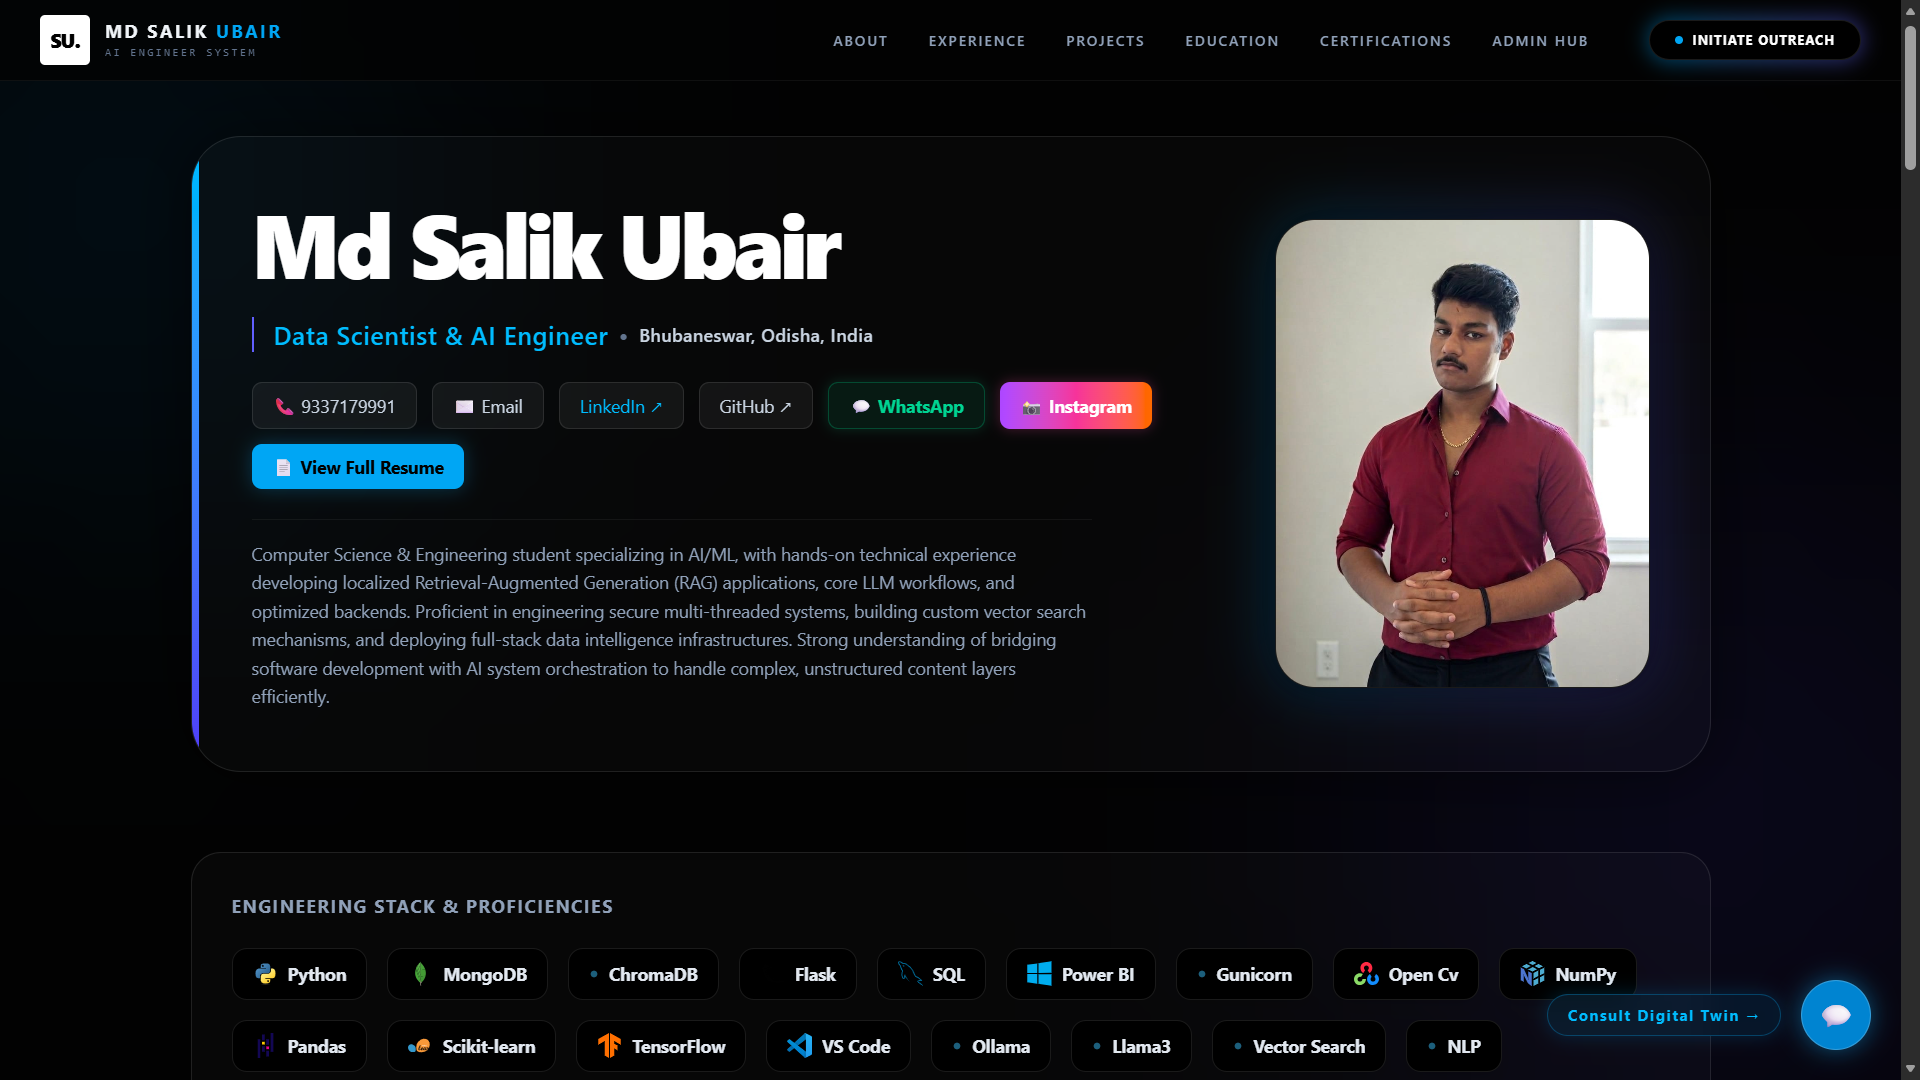
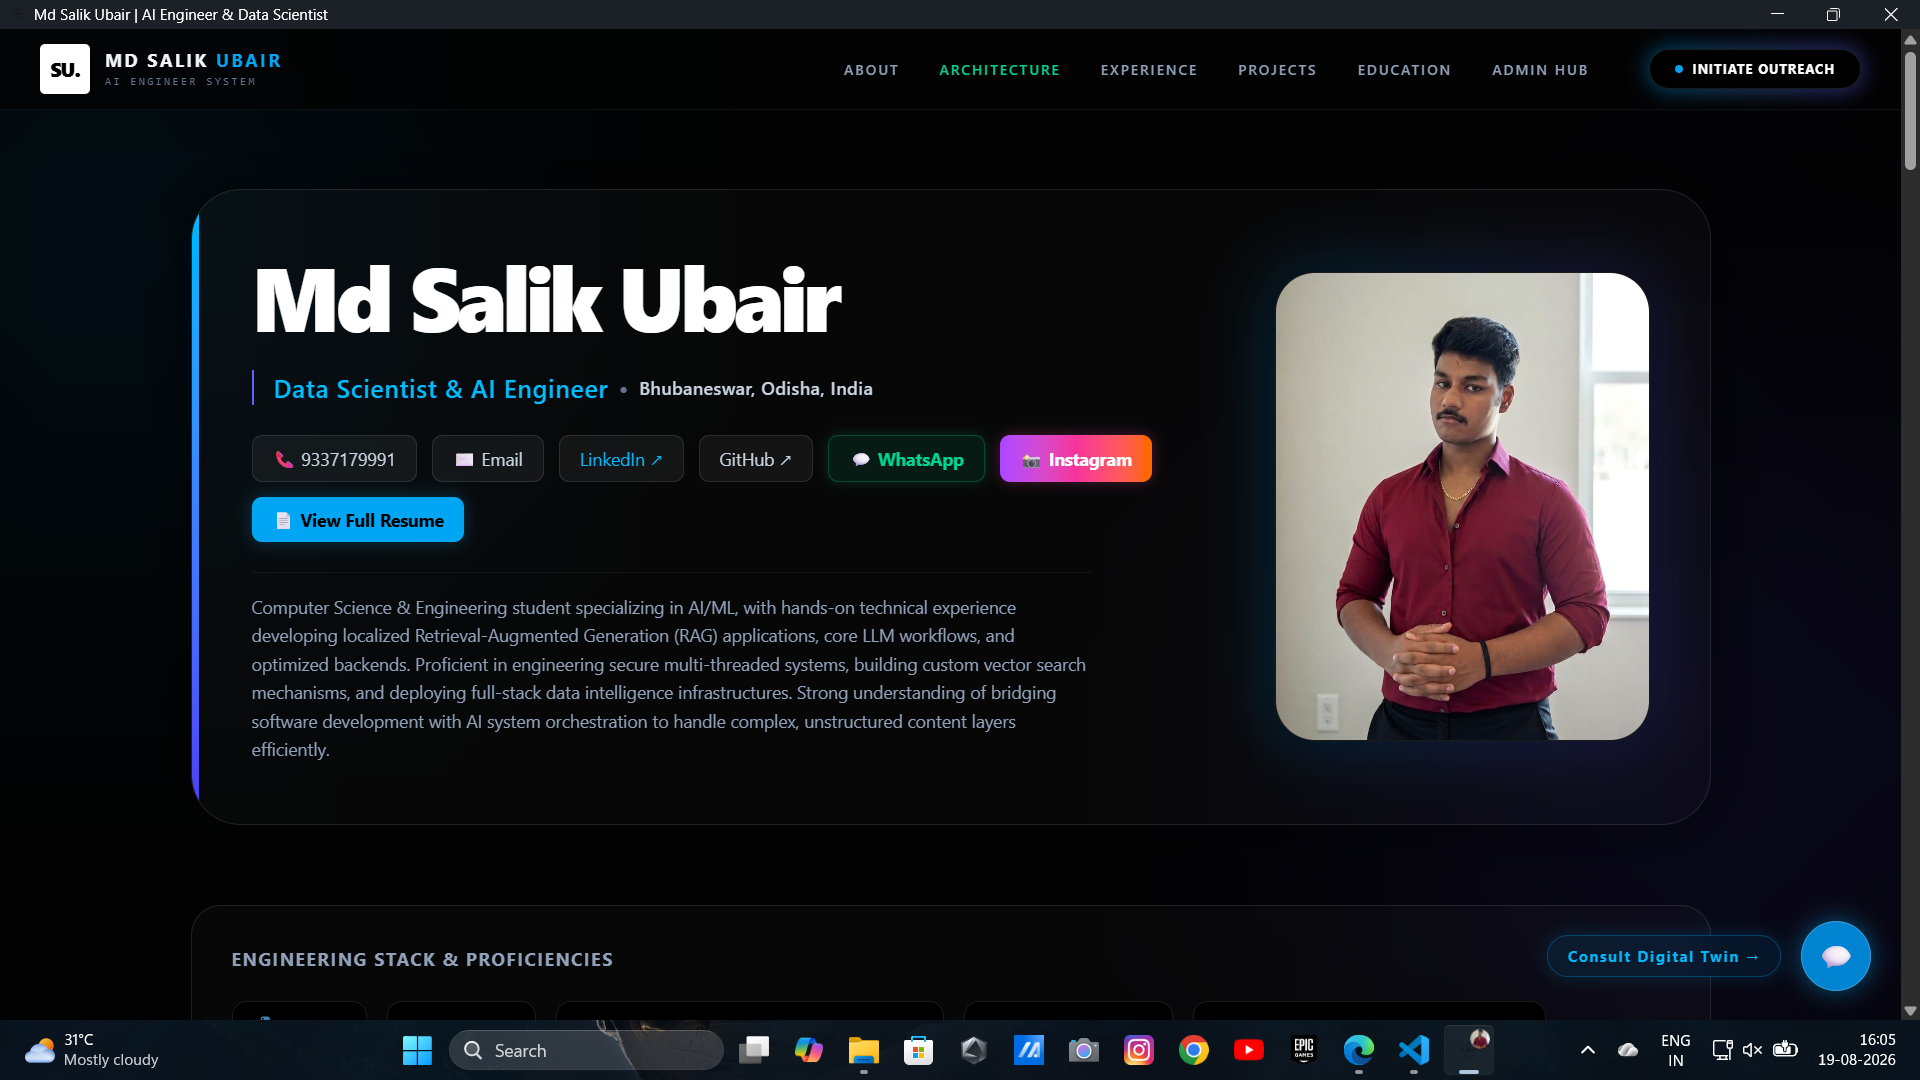
docs: add interactive architecture section and update LLM specs in README

diff --git a/frontend/src/App.jsx b/frontend/src/App.jsx
@@ -42,6 +42,7 @@ function App() {
   // Modal States
   const [viewingNode, setViewingNode] = useState(null); 
   const [isContactModalOpen, setIsContactModalOpen] = useState(false);
+  const [isWhitepaperOpen, setIsWhitepaperOpen] = useState(false); // 🚀 NEW: Architecture PPT Modal
   
   // Custom Toast Notification System
   const [toast, setToast] = useState(null);
@@ -160,16 +161,19 @@ function App() {
         } else if (isChatOpen) {
             e.preventDefault();
             setIsChatOpen(false); 
+        } else if (isWhitepaperOpen) {
+            e.preventDefault();
+            setIsWhitepaperOpen(false);
         }
     };
     
-    if (viewingNode || isChatOpen || isContactModalOpen) {
+    if (viewingNode || isChatOpen || isContactModalOpen || isWhitepaperOpen) {
         window.history.pushState(null, "", window.location.href);
     }
     
     window.addEventListener('popstate', handlePopState);
     return () => window.removeEventListener('popstate', handlePopState);
-  }, [viewingNode, isChatOpen, isContactModalOpen]);
+  }, [viewingNode, isChatOpen, isContactModalOpen, isWhitepaperOpen]);
 
 
   // ---------------------------------------------------------
@@ -589,14 +593,20 @@ function App() {
 
   const navLinks = [
     { label: 'About', view: 'portfolio', section: 'top' },
+    { label: 'Architecture', view: 'portfolio', section: 'modal-whitepaper' }, // 🚀 NEW: Architecture Button
     { label: 'Experience', view: 'portfolio', section: 'section-experiences' },
     { label: 'Projects', view: 'portfolio', section: 'section-projects' },
     { label: 'Education', view: 'portfolio', section: 'section-education' },
-    { label: 'Certifications', view: 'portfolio', section: 'section-certifications_and_achievements' },
     { label: 'Admin Hub', view: 'admin-hub', section: null },
   ];
 
   const handleNavClick = (view, sectionId) => {
+      if (sectionId === 'modal-whitepaper') {
+          setIsWhitepaperOpen(true);
+          setIsMobileMenuOpen(false);
+          return;
+      }
+      
       setCurrentView(view);
       setIsMobileMenuOpen(false);
       if(sectionId && view === 'portfolio') {
@@ -747,11 +757,10 @@ function App() {
             <div className="hidden lg:flex items-center gap-8">
                 {navLinks.map((link, idx) => (
                     <button 
-                        key={idx}
-                        onClick={() => handleNavClick(link.view, link.section)}
-                        className="text-[10px] md:text-[11px] font-semibold uppercase tracking-[0.15em] text-slate-400 hover:text-sky-400 transition-colors"
-                    >
-                        {link.label}
+                    key={idx}
+                    onClick={() => handleNavClick(link.view, link.section)}
+                    className="text-[10px] md:text-[11px] font-semibold uppercase tracking-[0.15em] text-slate-400 hover:text-sky-400 transition-colors">
+                    {link.label}
                     </button>
                 ))}
                 {/* TOP NAVBAR PRIORITY CTA */}
@@ -784,13 +793,93 @@ function App() {
               <div className="fixed top-[64px] left-0 w-full bg-[#050505]/95 backdrop-blur-xl border-b border-white/10 z-40 lg:hidden flex flex-col p-4 space-y-2 shadow-2xl animate-fadeIn">
                   {navLinks.map((link, idx) => (
                       <button 
-                          key={idx}
-                          onClick={() => handleNavClick(link.view, link.section)}
-                          className="text-xs font-bold uppercase tracking-[0.2em] text-slate-300 hover:text-white hover:bg-white/5 w-full text-left py-4 px-4 rounded-xl transition-all border border-transparent hover:border-white/10"
-                      >
-                          {link.label}
-                      </button>
+    key={idx}
+    onClick={() => handleNavClick(link.view, link.section)}
+    className="text-xs font-bold uppercase tracking-[0.2em] text-slate-300 hover:text-white hover:bg-white/5 w-full text-left py-4 px-4 rounded-xl transition-all border border-transparent hover:border-white/10"
+>
+    {link.label}
+</button>
                   ))}
+              </div>
+          )}
+
+          {/* 🚀 NEW: SYSTEM ARCHITECTURE WHITEPAPER MODAL 🚀 */}
+          {isWhitepaperOpen && (
+              <div className="fixed inset-0 z-[300] flex items-center justify-center p-4 bg-black/95 backdrop-blur-xl animate-fadeIn" onClick={() => setIsWhitepaperOpen(false)}>
+                  <div className="bg-[#050505] border border-emerald-500/20 w-full max-w-5xl rounded-3xl shadow-[0_0_100px_rgba(16,185,129,0.15)] relative overflow-hidden flex flex-col max-h-[90vh]" onClick={e => e.stopPropagation()}>
+                      <div className="absolute top-0 left-0 w-full h-1 bg-gradient-to-r from-emerald-500 to-sky-500"></div>
+                      <button onClick={() => setIsWhitepaperOpen(false)} className="absolute top-5 right-5 text-slate-400 hover:text-white bg-white/5 w-10 h-10 rounded-full flex items-center justify-center transition-colors z-20 hover:bg-red-500">✕</button>
+                      
+                      <div className="p-8 md:p-10 border-b border-white/5 bg-[#0a0a0a] flex-shrink-0">
+                          <div className="flex items-center gap-3 mb-2">
+                              <span className="w-2 h-2 bg-emerald-500 rounded-full animate-pulse"></span>
+                              <span className="text-[10px] font-mono text-emerald-400 tracking-widest uppercase">System Design Overview</span>
+                          </div>
+                          <h3 className="text-2xl md:text-4xl font-extrabold text-white tracking-tight">The "Digital Twin" Architecture</h3>
+                          <p className="text-xs md:text-sm text-slate-400 mt-3 leading-relaxed max-w-3xl">
+                              This portfolio is not a static webpage. It is a full-stack, production-grade <strong>Retrieval-Augmented Generation (RAG)</strong> application designed to showcase enterprise-level AI engineering, inference optimization, and system resilience.
+                          </p>
+                      </div>
+
+                      <div className="p-8 md:p-10 overflow-y-auto space-y-12" style={{ scrollbarWidth: 'none', msOverflowStyle: 'none' }}>
+                          
+                          {/* Section 1: The RAG Pipeline */}
+                          <div className="space-y-6">
+                              <h4 className="text-lg font-bold text-white border-b border-white/10 pb-2">1. The Neural Pipeline (Vector Search & Generation)</h4>
+                              <div className="grid grid-cols-1 md:grid-cols-3 gap-4">
+                                  <div className="bg-[#111] border border-white/5 p-5 rounded-2xl">
+                                      <div className="text-sky-400 mb-2">① Vectorization</div>
+                                      <h5 className="font-bold text-sm text-white mb-2">Google Gemini 768-D</h5>
+                                      <p className="text-[11px] text-slate-400 leading-relaxed">Incoming user queries and backend JSON data are embedded into 768-dimensional space using Google's <code>text-embedding-004</code> model for high-accuracy semantic capturing.</p>
+                                  </div>
+                                  <div className="bg-[#111] border border-white/5 p-5 rounded-2xl">
+                                      <div className="text-sky-400 mb-2">② Semantic Retrieval</div>
+                                      <h5 className="font-bold text-sm text-white mb-2">ChromaDB / FAISS</h5>
+                                      <p className="text-[11px] text-slate-400 leading-relaxed">The system performs an L2 (Cosine Distance) similarity search across the local vector database, retrieving the Top-K (K=6) most contextually relevant document chunks.</p>
+                                  </div>
+                                  <div className="bg-[#111] border border-white/5 p-5 rounded-2xl">
+                                      <div className="text-sky-400 mb-2">③ LLM Inference</div>
+                                      <h5 className="font-bold text-sm text-white mb-2">Groq Llama-3.3 70B</h5>
+                                      <p className="text-[11px] text-slate-400 leading-relaxed">The retrieved facts are injected into a strict zero-hallucination prompt. Groq's LPU inference engine processes the 70B parameter model to generate a professional response in under ~850ms.</p>
+                                  </div>
+                              </div>
+                          </div>
+
+                          {/* Section 2: Audio Synthesis */}
+                          <div className="space-y-4">
+                              <h4 className="text-lg font-bold text-white border-b border-white/10 pb-2">2. Multi-Modal Audio Synthesis</h4>
+                              <div className="bg-[#111] border border-white/5 p-6 rounded-2xl flex flex-col md:flex-row gap-6 items-center">
+                                  <div className="flex-1 space-y-3">
+                                      <p className="text-xs text-slate-300 leading-relaxed">
+                                          Text responses are piped through Microsoft's <strong>Edge-TTS</strong> neural voice synthesis engine. The system dynamically strips markdown and code blocks, optimizing the plain text for a natural, 24kHz Indian-English accent stream (<code>en-IN-PrabhatNeural</code>). 
+                                      </p>
+                                      <p className="text-xs text-slate-300 leading-relaxed">
+                                          The frontend synchronizes the incoming audio blob with HTML5 video elements, creating a seamless "Virtual Avatar" presence that reacts to the inference state (Idle, Thinking, Answering).
+                                      </p>
+                                  </div>
+                                  <div className="w-full md:w-1/3 bg-black border border-white/10 rounded-xl p-4 font-mono text-[9px] text-emerald-400 whitespace-pre-wrap">
+                                      {`async def _generate():\n  communicate = edge_tts.Communicate(\n    clean_text,\n    voice="en-IN-PrabhatNeural"\n  )\n  await communicate.save(filepath)`}
+                                  </div>
+                              </div>
+                          </div>
+
+                          {/* Section 3: Engineering Resilience */}
+                          <div className="space-y-4">
+                              <h4 className="text-lg font-bold text-white border-b border-white/10 pb-2">3. Production-Grade Fallbacks & Resilience</h4>
+                              <div className="grid grid-cols-1 md:grid-cols-2 gap-4">
+                                  <div className="bg-amber-500/5 border border-amber-500/20 p-5 rounded-2xl">
+                                      <h5 className="font-bold text-sm text-amber-500 mb-2">Automated LLM Routing</h5>
+                                      <p className="text-[11px] text-slate-400 leading-relaxed">If the primary 120B/70B model encounters a rate limit or API block, LangChain's <code>.with_fallbacks()</code> instantly reroutes the request to a faster 20B/8B model with zero downtime or error flags visible to the user.</p>
+                                  </div>
+                                  <div className="bg-sky-500/5 border border-sky-500/20 p-5 rounded-2xl">
+                                      <h5 className="font-bold text-sm text-sky-500 mb-2">Self-Healing Database</h5>
+                                      <p className="text-[11px] text-slate-400 leading-relaxed">If the backend cloud instance restarts and clears temporary memory, the Python service detects the missing vector directory and automatically rebuilds and re-chunks the entire ChromaDB from the master JSON payload in real-time.</p>
+                                  </div>
+                              </div>
+                          </div>
+
+                      </div>
+                  </div>
               </div>
           )}
 

diff --git a/README.md b/README.md
@@ -26,7 +26,7 @@
   <img src="ReadmeAssets/03_rag_twin.png" alt="Digital Twin Interface" width="90%" />
 </div>
 
-*   **Inference Engine:** Utilizes `Llama-3.3 (70B)` via Groq API for ultra-low latency, intelligent response synthesis.
+*   **Inference Engine:** Utilizes Multi-Tier Groq LLM Engine (gpt-oss-120b with fallback to 20b) for ultra-low latency, intelligent response synthesis.
 *   **Semantic Matrix:** Localized `ChromaDB` vector store powered by Google Generative AI Embeddings (`text-embedding-004`) with `RecursiveCharacterTextSplitter` for crash-proof data ingestion.
 *   **Hidden Context Embedding:** Deep technical documentation (`hidden_readme`) is embedded per database node. The AI autonomously understands complex underlying architectures without cluttering the public UI.
 *   **Synchronized Audio-Visuals:** Integrates `Edge-TTS` for real-time audio streaming. Features a hardware-accelerated video state controller mapping an avatar between idle, thinking, and speaking modes.
@@ -63,6 +63,15 @@
 *   **Matrix Bootloader:** Simulated cyber-terminal pre-fetching sequence masking standard server cold-start latencies.
 *   **Responsive Engine:** Fluid grid-layouts on PC that seamlessly adapt into horizontal snap-scrolling cards on mobile devices for flawless UX.
 *   **Custom Cyber Toasts:** Globally deployed sleek, matrix-styled toast notifications replacing standard browser alerts.
+
+### 5. Interactive System Architecture Whitepaper
+<div align="center">
+  <img src="ReadmeAssets/07_architecture.png" alt="System Architecture Whitepaper" width="90%" />
+</div>
+
+*   **Developer-First Transparency:** A dedicated interactive modal detailing the core engineering pipeline to technical recruiters and AI founders.
+*   **Pipeline Breakdown:** Deep-dive explanations covering Vectorization (Gemini 768-D), Semantic Retrieval (ChromaDB), and Inference Generation.
+*   **Production Resilience:** Showcases edge-case handling like Automated LLM Fallback Routing (Zero Downtime) and Self-Healing Database reconstruction.
 ---
 
 ## ⚙ System Architecture Data Flow
@@ -110,7 +119,7 @@
 - **ChromaDB** (Vector Similarity Search)
 - **MongoDB** (Persistent Storage & Structural Data)
 - **LangChain** (Pipeline Orchestration)
-- **Groq API** (Llama-3.3-70b-versatile)
+- **Groq API** (openai/gpt-oss-120b & 20b Fallback)
 - **Google Generative AI** (text-embedding-004)
 
 ---
